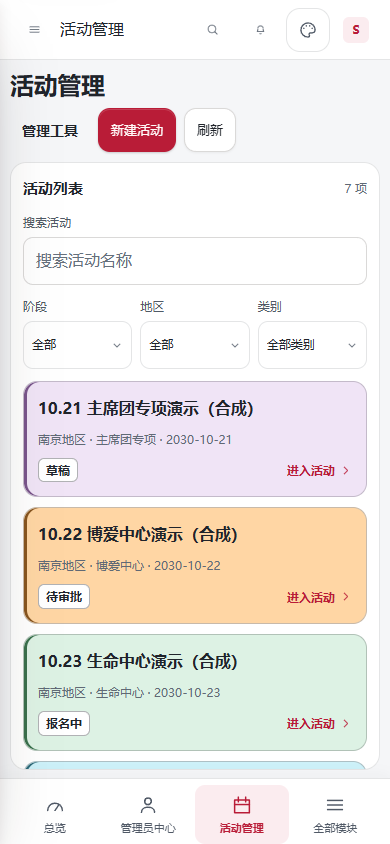
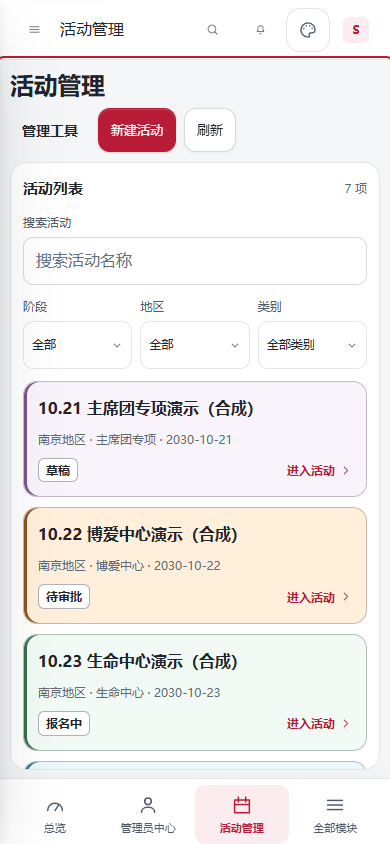
fix(events): correct position counts and soften directory cards
(cherry picked from commit 08dc91551dc10ac86ad55f895cd742665d75cd6f)

Changed region(s): [[0.0615, 0.5853, 0.9538, 0.7393], [0.0923, 0.8934, 0.9231, 0.9242], [0.9846, 0.0616, 1.0, 0.0924]]

diff --git a/public/app/console/pages/activity-workspace-page.js b/public/app/console/pages/activity-workspace-page.js
@@ -96,6 +96,7 @@ export default async function activityWorkspacePage(context){
     const projectRows=activityProjects(events.filter(event=>event['状态']!=='已归档')).map(project=>{
       const c=config(project),legacy=activityStage(project);
       const stage=config(project).workspaceSubmission?workspaceStage(project):['approval','ready'].includes(legacy)?'待审批':stageLabel(legacy);
+      const sessions=project.sessions||[project];
       return {
         id:project._id,
         name:project.projectName||project['活动名称'],
@@ -105,14 +106,20 @@ export default async function activityWorkspacePage(context){
         category:canonicalActivityCategory(project['组织类别']||c.center),
         date:project['报名日期'],
         event:project,
-        sessions:project.sessions||[project],
+        // Keep all identities for deep links, but do not count the parent or retired positions.
+        sessions,
+        sessionCount:Array.isArray(c.positionPlan?.positions)?c.positionPlan.positions.length:sessions.filter(session=>!config(session).positionPlan).length,
       };
     });
     return [...drafts.filter(d=>!events.some(e=>e['活动ID']===d.activityId)).map(d=>({id:d.id,name:d.content.name,stage:d.stage,statusLabel:d.stage,region:d.content.region,category:canonicalActivityCategory(d.content.category),date:d.content.date,endDate:d.content.endDate,draft:d})),...projectRows];
   }
   function renderList(){
     const rows=records().filter(r=>(!search.control.value||r.name?.includes(search.control.value))&&(!stage.control.value||r.stage===stage.control.value)&&(!region.control.value||r.region===region.control.value)&&(!category.control.value||r.category===category.control.value));
-    count.textContent=`${rows.length} 项`;list.replaceChildren(...rows.map(row=>h('button',{type:'button',class:'activity-v2-card',data:{record:row.id,region:row.region||'',category:row.category||'',sessions:String(row.sessions?.length||1)},aria:{pressed:String(row.id===selected)},on:{click:()=>openActivity(row)}},h('strong',{text:row.name}),h('span',{class:'activity-v2-card__meta',text:[row.region==='suzhou'?'苏州地区':'南京地区',row.category,row.date].filter(Boolean).join(' · ')}),h('span',{class:'row-between'},h('span',{class:'activity-v2-badge',text:row.stage==='报名中'&&occupancy.get(row.id)?'报名中 · 报名已满':row.statusLabel||row.stage||'未分类'}),row.sessions?.length>1?h('small',{class:'t-caption',text:`${row.sessions.length} 个场次`}):null,h('span',{class:'activity-v2-card__entry','aria-hidden':'true'},'进入活动',icon('chevronRight','ico ico--sm'))))));
+    count.textContent=`${rows.length} 项`;
+    list.replaceChildren(...rows.map(row=>{
+      const sessionCount=row.sessionCount??1;
+      return h('button',{type:'button',class:'activity-v2-card',data:{record:row.id,region:row.region||'',category:row.category||'',sessions:String(sessionCount)},aria:{pressed:String(row.id===selected)},on:{click:()=>openActivity(row)}},h('strong',{text:row.name}),h('span',{class:'activity-v2-card__meta',text:[row.region==='suzhou'?'苏州地区':'南京地区',row.category,row.date].filter(Boolean).join(' · ')}),h('span',{class:'row-between'},h('span',{class:'activity-v2-badge',text:row.stage==='报名中'&&occupancy.get(row.id)?'报名中 · 报名已满':row.statusLabel||row.stage||'未分类'}),sessionCount>1?h('small',{class:'t-caption',text:`${sessionCount} 个场次`}):null,h('span',{class:'activity-v2-card__entry','aria-hidden':'true'},'进入活动',icon('chevronRight','ico ico--sm'))));
+    }));
     if(!rows.length)list.append(emptyState({title:'没有符合条件的活动',description:'调整筛选或新建活动。'}));
   }
   function renderDetail(){

diff --git a/public/styles/activity-workspace.css b/public/styles/activity-workspace.css
@@ -66,9 +66,9 @@
 .activity-registration-table input[type=checkbox]{margin:0;vertical-align:middle}
 .activity-running-evidence-actions{display:flex;gap:6px;align-items:center;flex-wrap:wrap}
 /* Category colours match the public activity plaza; progress stays a separate text badge. */
-.activity-v2-card{border:1px solid color-mix(in srgb,var(--category-label-ink,var(--border)) 30%,var(--border));background:var(--category-label-bg,var(--surface));box-shadow:inset 3px 0 0 var(--category-label-ink,var(--border));gap:8px}
+.activity-v2-card{--activity-card-bg:color-mix(in srgb,var(--category-label-bg,var(--surface)) 40%,var(--surface));border:1px solid color-mix(in srgb,var(--category-label-ink,var(--border)) 30%,var(--border));background:var(--activity-card-bg);box-shadow:inset 3px 0 0 var(--category-label-ink,var(--border));gap:8px}
 .activity-v2-card:hover{border-color:var(--category-label-ink,var(--text-secondary))}
-.activity-v2-card[aria-pressed=true]{border-color:var(--category-label-ink,var(--accent));background:var(--category-label-bg,var(--surface));box-shadow:inset 0 0 0 1px var(--category-label-ink,var(--accent)),inset 4px 0 0 var(--category-label-ink,var(--accent))}
+.activity-v2-card[aria-pressed=true]{border-color:var(--category-label-ink,var(--accent));background:var(--activity-card-bg);box-shadow:inset 0 0 0 1px var(--category-label-ink,var(--accent)),inset 4px 0 0 var(--category-label-ink,var(--accent))}
 .activity-v2-card:focus-visible{outline:2px solid var(--text-primary);outline-offset:2px}
 .activity-v2-card .activity-v2-badge{color:var(--text-primary);background:var(--surface);border:1px solid color-mix(in srgb,var(--text-primary) 35%,transparent);border-radius:6px;font-size:12px;font-weight:700;line-height:1.4;padding:3px 7px}
 

diff --git a/reports/ACTIVITY_LIST_COLORS_2026-10-22.md b/reports/ACTIVITY_LIST_COLORS_2026-10-22.md
@@ -1,22 +1,24 @@
 # 活动列表类别配色与进度标签
 
-基于 `origin/main` 的 `314c1eb03b73a8aea13c6faf6896bb2d0e3050f9`，分支为 `codex/activity-list-colors`。之前的 `codex/activity-draft-inline` 分支保留，未混入本次修改。
+最初基于 `origin/main` 的 `314c1eb03b73a8aea13c6faf6896bb2d0e3050f9`，后续同步至 `f9505e1`，分支为 `codex/activity-list-colors`。之前的 `codex/activity-draft-inline` 分支保留，未混入本次修改。
+
+交付底色为 40% 类别底色与 60% 面板底色混合，桌面／手机预览无横向溢出，文字和边框不变。用户已要求将该版本与岗位数量修复一并更新到 PR #26，截图与说明已同步；尚未部署。
 
 当前结论：Windows 测试权限阻塞已修复，`npm run verify` 完整通过，Node 套件 2411 项通过、0 项失败、0 项跳过。下文保留修复前的问题记录，具体修复见末节。
 
 ## 本轮改动
 
 - 管理端活动卡片的背景和左侧色线表示活动类别，采用当前活动广场实际生效的配色：主席团紫、博爱橙、生命绿、综事青蓝、一加助残淡蓝紫、献血车浅红、排班黄。类别配色与站点主题色分开。
-- 活动广场与管理端共用 `tokens.css` 的类别颜色，原活动广场视觉保持不变。未匹配类别保留中性背景。
+- 活动广场与管理端共用 `tokens.css` 的类别颜色，原活动广场视觉保持不变。根据“再淡一点”的反馈，管理端卡片以 40% 类别底色和 60% 面板底色混合：基础色值保持一致，最终显示底色有意比前端色块更浅。文字、左侧色线、选中边框保持原有清晰度，未匹配类别保留中性背景。
 - 当前选中活动使用更明显的同色边框，键盘聚焦时另有深色轮廓。
 - 进度文字使用加粗、深色文字、浅底和独立边框，保留“草稿”“待审批”“报名中”等原有文案。进度不再另设一套彩色含义，避免与类别混淆。
 - 保留列表宽度、筛选、场次数、滚动及手机端列表／详情切换。
 
-界面改动仅涉及样式；另修复了本地 Windows 测试夹具，并同步测试指南、变更记录和本说明。未修改业务 JavaScript、接口、权限、活动状态判定、依赖或表结构。未向远程业务表写入数据，未发送邮件。
+本说明记录类别样式和 Windows 测试夹具的修复；新增的前端岗位数量修复详见[岗位计数记录](ACTIVITY_DIRECTORY_COUNT_2026-10-22.md)。未修改后端接口、权限、活动状态判定、依赖或表结构，未向远程业务表写入数据，未发送邮件。
 
 ## 验证
 
-- `npm run check:links`：通过，扫描 1018 个模块。
+- `npm run check:links`：通过，新增计数回归后扫描 1019 个模块。
 - `git diff --check`：通过。
 - Edge 桌面／手机相关 Playwright：14 项通过，2 项为仅适用桌面的检查在手机项目中正常跳过。检查活动卡片事实与导航、地区／类别组合筛选、草稿恢复、独立滚动、手机列表返回位置和目录失败重试。
 
@@ -25,7 +27,7 @@
   npx playwright test --config=playwright.edge.config.mjs tests/browser/mobile-activity-workspace.spec.mjs tests/browser/activity-taxonomy.spec.mjs tests/browser/activity-draft-workspace-v2.spec.mjs --grep 'six organization|region, legacy|phone opens|mobile deep links|initial directory|new activity requires|desktop workspace keeps|shared console rail' --reporter=line
   ```
 
-- 额外合成页面检查：7 类活动在管理端与活动广场颜色一致，进度标签加粗且有边框，1440、390、320 像素宽度下无横向溢出，选中项、键盘聚焦和类别筛选正常。已查看桌面和手机截图。
+- 额外合成页面检查：7 类活动的基础配色与活动广场一致。80% 底色版本曾检查 1440、390、320 像素宽度无横向溢出；最终 40% 底色版本另检查桌面与手机布局，文字与进度标签保持不透明、无横向溢出。选中项、键盘聚焦和类别筛选已验证；合成截图已更新为最终效果。
 - **修复前** `npm run verify` 未全部通过：项目检查、lint、权限／身份／资料检查通过；Node 测试 2410 项通过、1 项失败。失败位于 `tests/web-assets.test.mjs:194` 的符号链接隔离测试，Windows 创建符号链接时报 `EPERM`。在受限环境外单独重跑 `node --test tests/web-assets.test.mjs`，仍为 18 项通过、同一项权限错误。当时未跳过此检查或修改系统权限，后续通过兼容夹具解决，见末节。
 - **修复前复测**默认并发的 `npm run verify` 时，另有 `materials-preview.test.mjs` 文件级失败，未提供更具体的错误；单独重跑该文件 16 项全部通过。随后以 `node --test --test-concurrency=4 tests/*.test.mjs` 重跑完整 Node 套件，仍为 2410 项通过、仅上述符号链接权限测试失败。该次文件级失败的原因未确认，未改动物资模块或测试；修复后的完整检查中未再出现。
 - 初次扩大筛选范围时还选中了与本次样式无关的最终时长表测试：Edge 项目名与预览脚本只为 Chromium 预置的活动名称不匹配，桌面／手机各失败 1 项。重新限定本次相关用例后得到上述 14 项通过。未把这两项算作通过，也未修改业务或预览脚本以消除失败。
@@ -58,3 +60,5 @@
 - `npm run check:links`、`git diff --check`：通过。
 
 未修改全量命令、降低并发要求或设置跳过开关。其他系统的文件符号链接分支代码保持原样，本机未执行 Linux 环境验证，仍由跨平台 CI 确认。
+
+底色调淡后再次执行 `npm run verify`：退出码 0，Node 套件仍为 2411 项通过、0 项失败、0 项跳过；`npm run check:links` 和 `git diff --check` 通过。

diff --git a/reports/ACTIVITY_DIRECTORY_COUNT_2026-10-22.md b/reports/ACTIVITY_DIRECTORY_COUNT_2026-10-22.md
@@ -1,0 +1,38 @@
+# 多岗位场次数量显示修复
+
+## 问题与范围
+
+管理端活动目录原先使用分组内全部记录的条数显示场次。一项已生成岗位的活动包含 1 条活动主记录与 N 条岗位记录，因此设置 2 个岗位会显示 3，设置 16 个会显示 17。保留在目录中的历史已移除岗位也可能导致数量进一步偏大。
+
+这是前端展示计数错误；后端同时保存活动主记录与岗位子记录用于审批和流程关联，不能为修复显示而删除其中的记录。
+
+## 改动
+
+- `activity-workspace-page.js` 单独计算用于目录展示的 `sessionCount`：有岗位计划时采用当前计划的岗位数量，无岗位计划时统计实际场次并排除主记录。
+- 场次数文字与卡片的 `data-sessions` 使用同一数量。
+- 保留原始 `sessions` 集合，用于主活动／子岗位链接解析；不改变共享分组模型或其他业务工作区。
+- 不改后端接口、存储、审批、报名数据或权限，不写远程业务表。
+
+## 验证
+
+新增 `tests/browser/activity-directory-count.spec.mjs`，在本地内存预览中模拟主记录与岗位子记录。修复前计数断言失败，修复后 Edge 桌面／手机共 6 项全部通过：
+
+- 分别设置 1、2、16 个岗位，卡片计数与配置一致；单岗位不再显示为 2 场。
+- 多岗位项目存在历史已移除岗位时，仍只显示当前配置数。
+- 无岗位计划的历史双场次活动继续显示 2 个场次。
+- 从子岗位链接进入仍能解析到原活动主页面。
+
+```powershell
+$env:PLAYWRIGHT_PREVIEW_PORT='3123'
+npx playwright test --config=playwright.edge.config.mjs tests/browser/activity-directory-count.spec.mjs --reporter=line
+```
+
+`npm run check:links` 通过（1019 个模块），`git diff --check` 通过。完整 `npm run verify` 退出码为 0，项目检查、ESLint、权限／身份／资料检查和 Node 套件全部通过；Node 测试 2411 项通过、0 项失败、0 项跳过。
+
+## 交付状态
+
+用户已要求将本修复与 40% 底色版本一并更新至 PR #26；CI 和合并状态以 GitHub 为准，尚未部署。回滚本修复只需恢复目录的计数代码及对应回归测试，无数据迁移。
+
+## 合成截图
+
+![配置 16 个岗位，目录显示 16 个场次](activity-directory-count-qa/positions-16-desktop.png)

diff --git a/CHANGELOG.md b/CHANGELOG.md
@@ -2,9 +2,11 @@
 
 ## Unreleased
 
+- 修复管理端多岗位活动数量多算 1 的显示问题：目录按当前岗位配置显示场次数，不再把活动主记录或已移除的历史岗位计入；无岗位计划的历史活动仍按实际场次统计，保留子岗位链接与审批关联，不改后端记录。
+
 - 修复普通 Windows 账号运行 CSS 打包安全测试时创建文件符号链接报 `EPERM`：Windows 夹具改用目录联接，保留真实的链接越界拒绝断言和其他系统的文件符号链接测试，不改生产安全逻辑或系统权限。
 
-- 管理端活动列表与活动广场共用类别配色：卡片浅色底和左侧色线表示活动类别，选中项加强同色边框；进度改为深色加粗、带边框的文字标签，避免与类别颜色混淆。保留筛选、场次数与手机端列表／详情切换，不改活动状态或业务接口。
+- 管理端活动列表与活动广场共用类别配色：卡片以 40% 类别底色和 60% 面板底色混合，降低大面积背景的浓度，左侧色线表示活动类别，选中项加强同色边框；进度改为深色加粗、带边框的文字标签，避免与类别颜色混淆。保留筛选、场次数与手机端列表／详情切换，不改活动状态或业务接口。
 
 - 会员中心志愿时长改为对接「南大红会 志愿服务平台」Base（只读）：按"姓名＋学号"匹配「个人主页（编辑版）」，展示"总志愿时长"与"学年志愿时长"（志愿时长（25-26）），替换原先三个本地入账统计列。平台账号缺学号列时按校园邮箱前缀补齐（自助注册强制前缀＝学号）；匹配不到、外部记录冲突或读取不完整时显示破折号并提示，不编造数值。外部索引按 `PLATFORM_VOLUNTEER_PLATFORM_CACHE_MS`（默认 5 分钟）共享缓存；未配置该只读 Token 时保持空值而不是停服。
 
